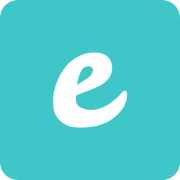
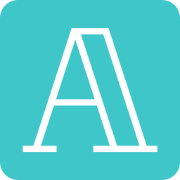
change some file

Changed region(s): [[0.1111, 0.1389, 0.8889, 0.8611]]

diff --git a/index.html b/index.html
@@ -5,7 +5,7 @@
   <meta charset="utf-8">
   <meta content="width=device-width, initial-scale=1.0" name="viewport">
 
-  <title>ElgoraBD</title>
+  <title>Algora Solutions</title>
   <meta content="" name="description">
   <meta content="" name="keywords">
 
@@ -33,7 +33,7 @@
   <header id="header" class="fixed-top">
     <div class="container d-flex align-items-center justify-content-between">
 
-      <h1 class="logo"><a href="index.html">Elgora</a></h1>
+      <h1 class="logo"><a href="index.html">Algora</a></h1>
       <!-- Uncomment below if you prefer to use an image logo -->
       <!-- <a href="index.html" class="logo"><img src="assets/img/logo.png" alt="" class="img-fluid"></a>-->
 
@@ -814,7 +814,7 @@
 
         <div class="row  justify-content-center">
           <div class="col-lg-6">
-            <h3>ElgoraBD</h3>
+            <h3>Algora Solutions</h3>
             <p>Et aut eum quis fuga eos sunt ipsa nihil. Labore corporis magni eligendi fuga maxime saepe commodi placeat.</p>
           </div>
         </div>
@@ -840,7 +840,7 @@
 
     <div class="container footer-bottom ">
       <div class="text-center">
-        &copy; Copyright <strong><span>Team ElgoraBD 2023</span></strong>.
+        &copy; Copyright <strong><span>Team Algora 2023</span></strong>.
       </div>
     </div>
   </footer>
